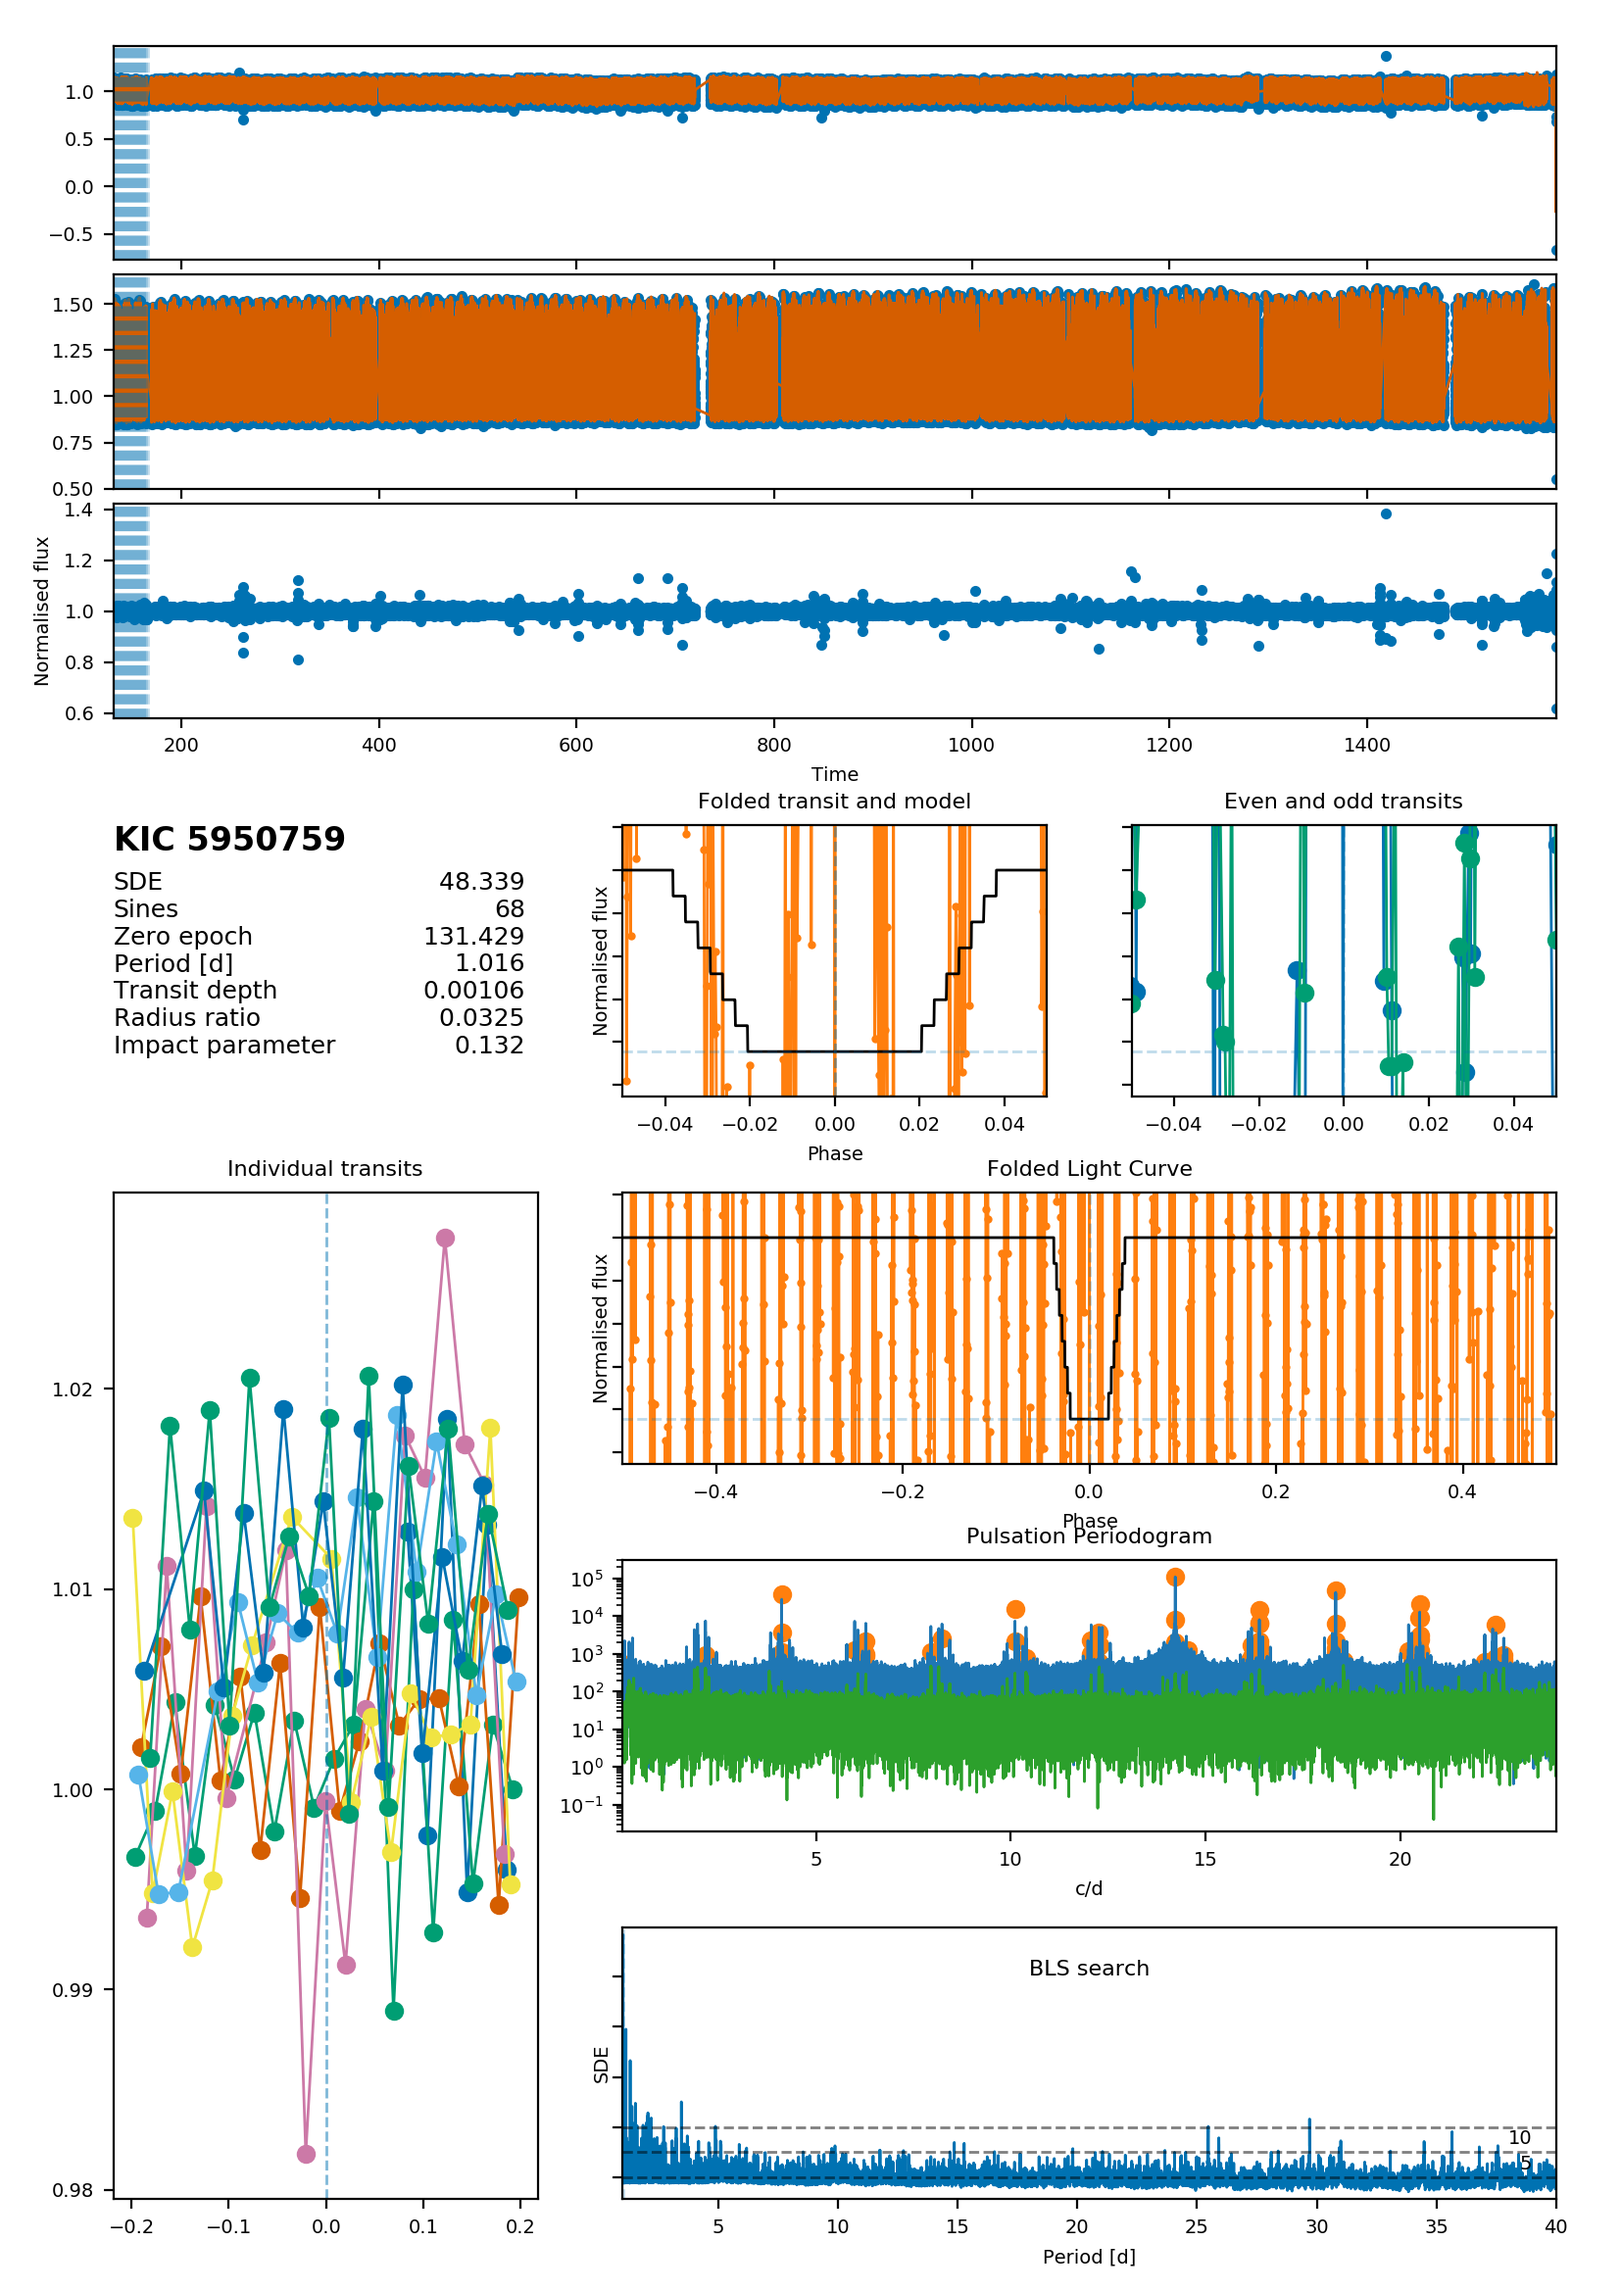
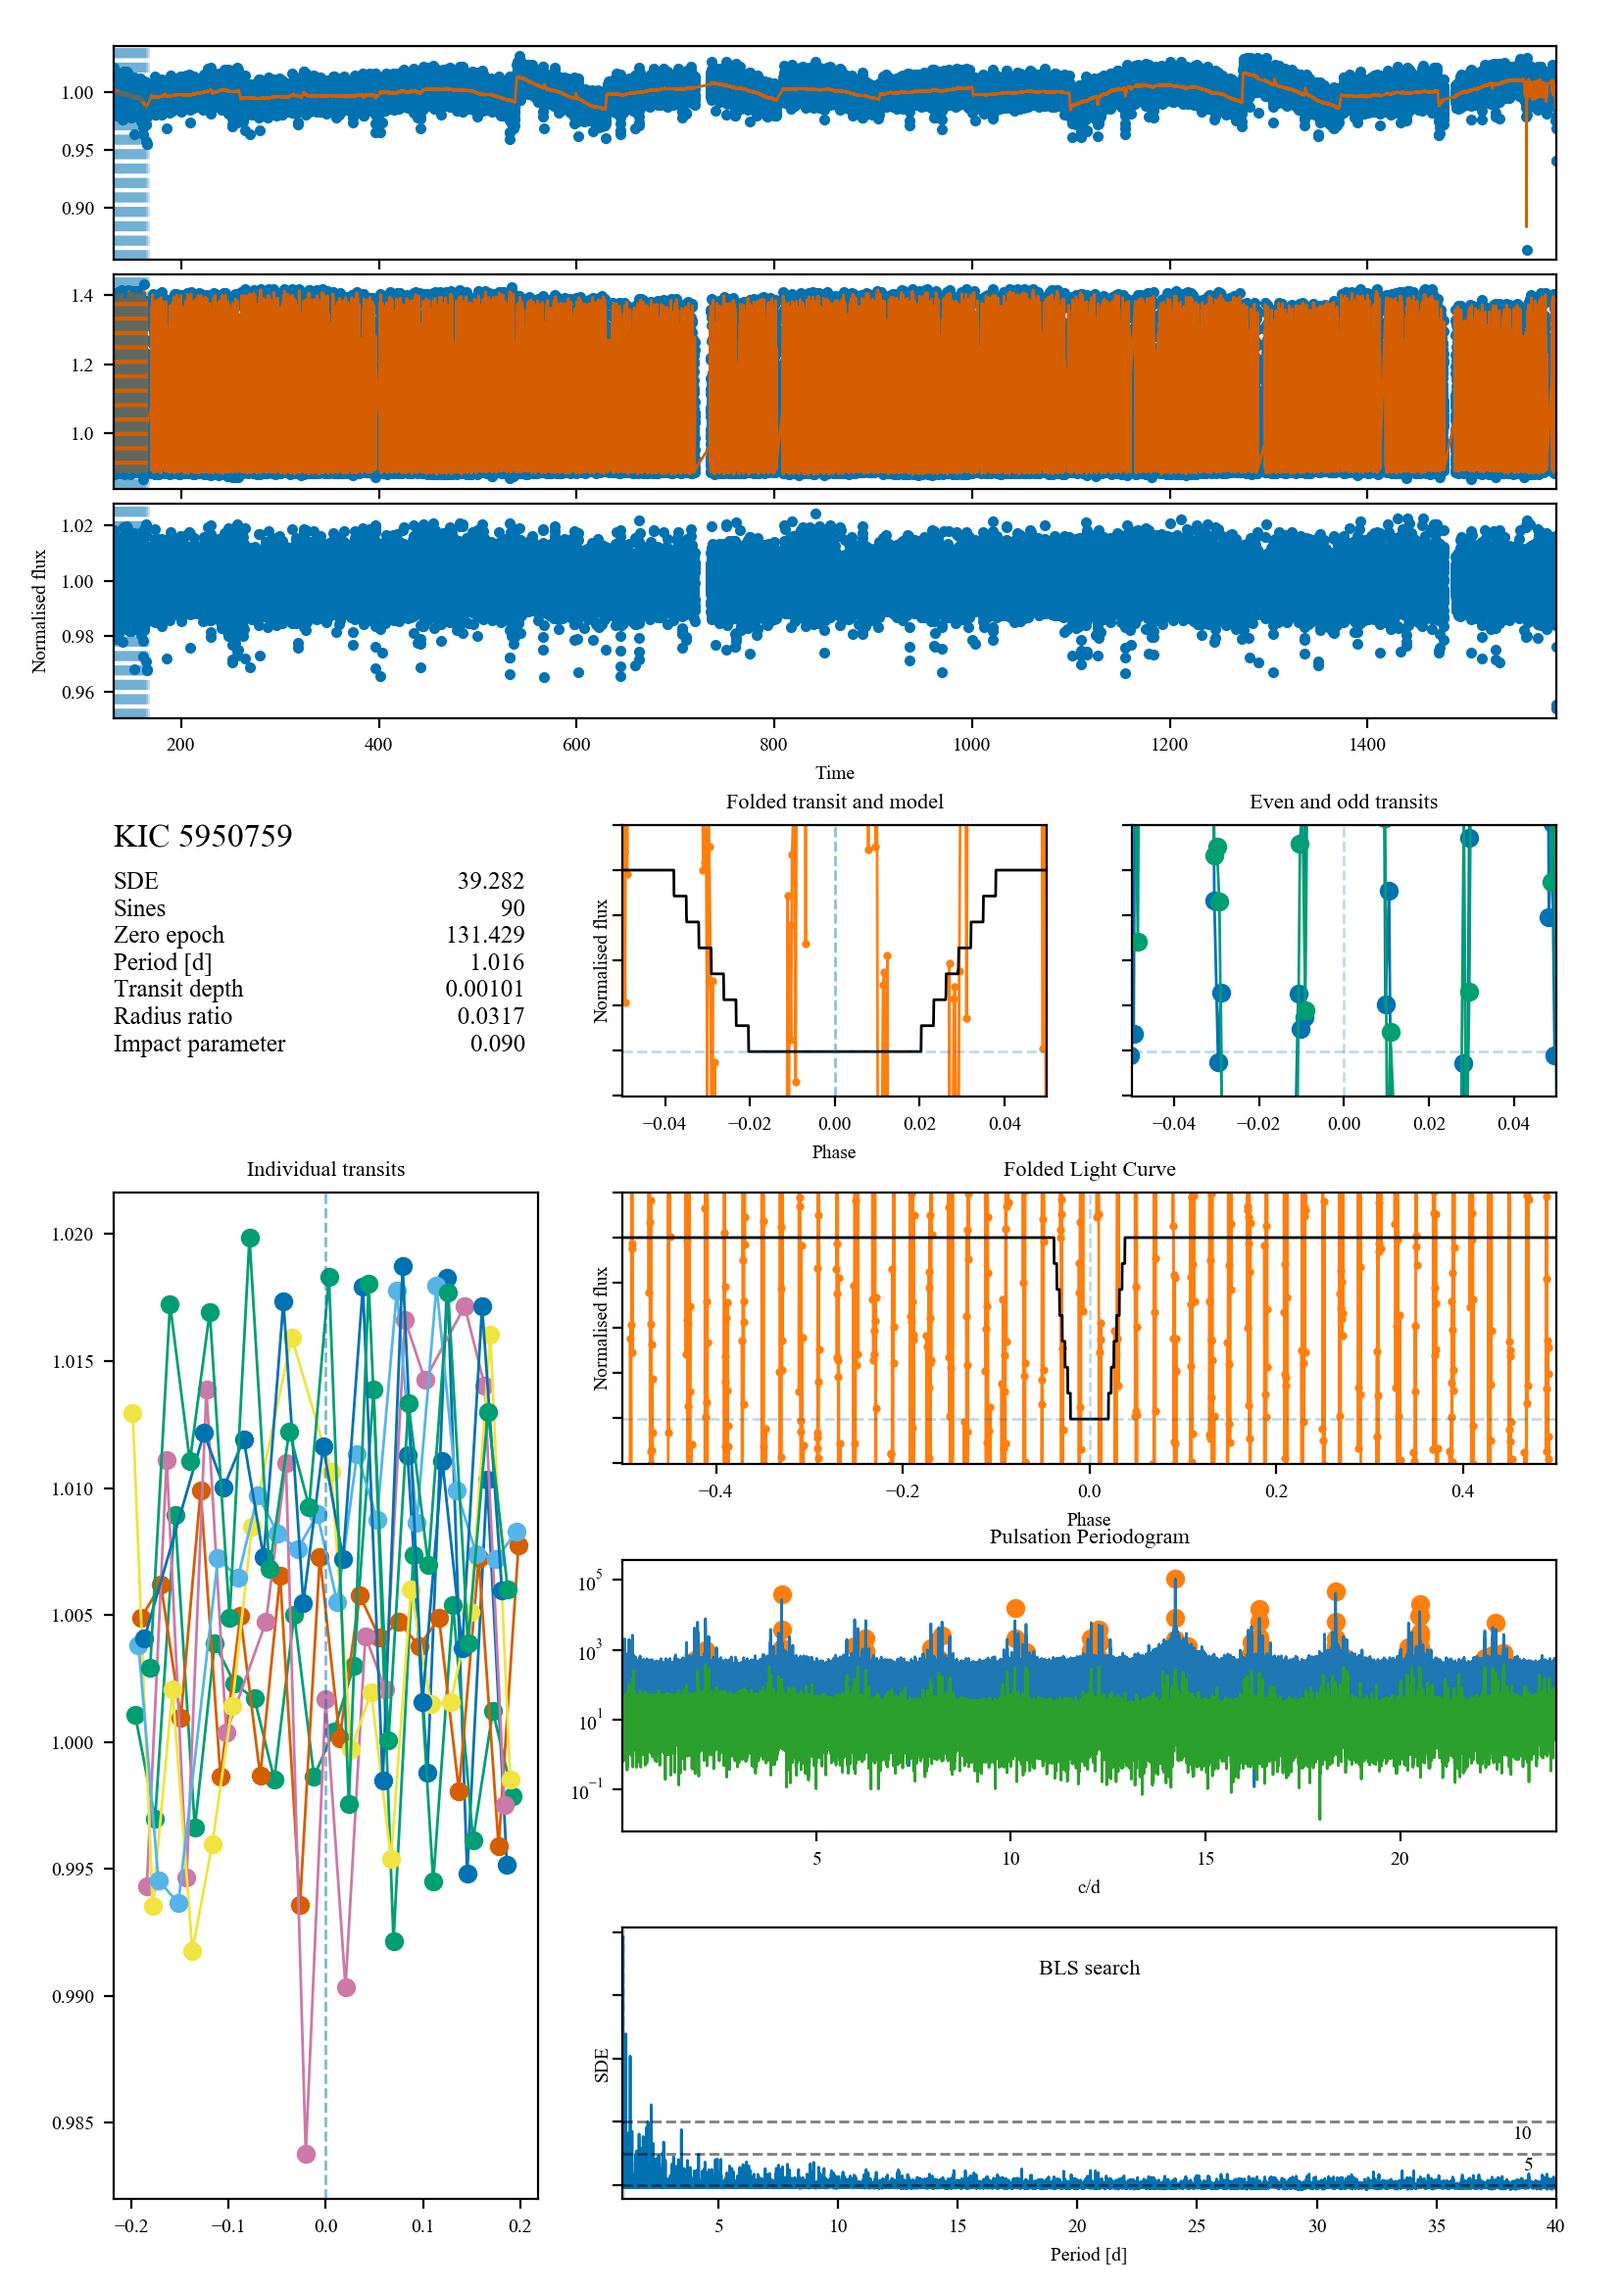
outlier upgrade

diff --git a/notebooks/hot_utils.py b/notebooks/hot_utils.py
@@ -178,6 +178,15 @@ def correct_quarter(lc,quarter):
 
     return corrected_flux
 
+def correct_all_quarters(lc):
+    lc2 = copy.copy(lc)
+    lc2.trposi = np.zeros_like(lc2.flux)
+    for qq in np.unique(lc2.quarter.astype('int')):
+        m = lc2.quarter==qq
+        corrflux = correct_quarter(lc2,qq)
+        lc2.trposi[m] = lc.flux[m] - corrflux + np.nanmedian(corrflux)
+    return lc2
+
 def correct_all(lc,ff):
     niter = lc.niter
 
@@ -185,8 +194,8 @@ def correct_all(lc,ff):
     weights, residuals, rank, s = np.linalg.lstsq(design.T,lc.flux)
 
     model = np.dot(weights,design)
-    model_time = np.dot(weights[:niter],design[:niter,:])
-    model_pos = np.dot(weights[niter:],design[niter:,:])
+    model_time = np.dot(weights[:(niter*2)],design[:(niter*2),:])
+    model_pos = np.dot(weights[(niter*2):],design[(niter*2):,:])
 
     model_time = model_time-np.nanmedian(model_time)+1
     model_pos = model_pos-np.nanmedian(model_pos)+1
@@ -269,7 +278,7 @@ def auto_sine_fit(lc,prob_max=1e-10, maxiter=60,min_period=4./24., max_period=30
     
     i = 0
     falarm = 0.0
-    tq = tqdm(total=maxiter)
+    tq = tqdm(total=maxiter,desc='sine waves')
 
     components = []
     while falarm <= prob_max:
@@ -391,7 +400,7 @@ def rho_from_pas(period,a):
     return 1e-3*(3*np.pi)/G * a**3 * (period*d_s)**-2
 
 
-def do_all(kic,auto=True,renormalize=False,planet_p_range=(1.,40.),star_p_range=(1./24.,30.),niter=60,figtype='png',outdir='./'):
+def do_all(kic,auto=True,renormalize=False,planet_p_range=(1.,360.),star_p_range=(1./24.,30.),niter=60,figtype='png',outdir='./'):
     tic = clock()
     print('Loading light curve for KIC %d...' % kic)
 
@@ -426,6 +435,28 @@ def do_all(kic,auto=True,renormalize=False,planet_p_range=(1.,40.),star_p_range=
         print('Subtracted %d sine waves' % niter)   
     else:
         lc3, ff, pp, noise = iterative_sine_fit(lc2, niter,min_period=min_period, max_period=max_period)    
+    print('Cleaned!')
+
+    print('Correcting with CBVs...')
+    lc4 = correct_all(lc3,ff)
+    print('Corrected with CBVs!')
+
+    print('Clipping outliers')
+    dummy = lc4.copy()
+    model = lc4.trposi + lc4.trtime
+    dummy.flux -= model
+    dummy, mask = dummy.remove_outliers(return_mask=True,sigma_upper=4,sigma_lower=5)
+    # mask += (lc5.quarter>16)
+    lc6 = lc[~mask].copy()
+    lc6.quarter = lc6.quarter[~mask]
+    print('Clipped %d outliers' % np.sum(mask))
+
+    print('Running CLEAN again')
+    if auto == True:
+        lc3, ff, pp, noise, snrs, niter, components = auto_sine_fit(lc6,prob_max = 1e-20, maxiter=200,min_period=min_period,max_period=max_period) 
+        print('Subtracted %d sine waves' % niter)   
+    else:
+        lc3, ff, pp, noise = iterative_sine_fit(lc6, niter,min_period=min_period, max_period=max_period)    
     print('Cleaned!')
 
     print('Correcting with CBVs...')
@@ -524,18 +555,18 @@ def parallel_search(obj):
     except:
         print('Failed on',kic)
 
-def make_design_matrix(llc,frequencies):
+def make_design_matrix(llc,frequencies,offsets=True):
     cols = []
     t = llc.time
     channel = llc.channel[0]
 
-    for frequency in tqdm(frequencies):
+    for frequency in tqdm(frequencies,desc='frequencies'):
         cols.append(np.sin(2 * np.pi * frequency * t))
         cols.append(np.cos(2 * np.pi * frequency * t))
         
     quarters = llc.quarter
 
-    for quarter in tqdm(np.unique(quarters)):
+    for quarter in tqdm(np.unique(quarters),desc='quarters'):
         fname = find_cbv(quarter)
         cbvfile = fitsio.FITS(fname)
         m = (llc.quarter== quarter)
@@ -544,12 +575,17 @@ def make_design_matrix(llc,frequencies):
         for j in range(16):
             padded = np.zeros_like(t)
             padded[m] = cbvfile[channel]['VECTOR_%d'% (j+1)][cads]
+            padded = (padded-padded.min())/(padded.max()-padded.min())*2-1. # normalize
             cols.append(padded)
-        padded = np.zeros_like(t)
-        padded[m] = 1.
-        cols.append(padded)
-    
-    cols.append(np.ones_like(t))
+        
+        if offsets:
+            padded = np.zeros_like(t)
+            padded[m] = 1.
+            padded = (padded-padded.min())/(padded.max()-padded.min())*2-1. # normalize
+            cols.append(padded)
+    if not offsets:
+        cols.append(np.ones_like(t))
+
     return np.vstack(cols)
 
 ###-------------------------------------------------------------------###
@@ -562,7 +598,7 @@ class BasicSearch(object):
     def __init__(self, d, inject=False,star_p_range=(1./24.,30.),**kwargs):
         ## Keyword arguments
         ## -----------------
-        self.d = d
+        self.d = d.copy()
 
         self.nbin = kwargs.get('nbin', 2000)
         self.qmin = kwargs.get('qmin', 0.001)
